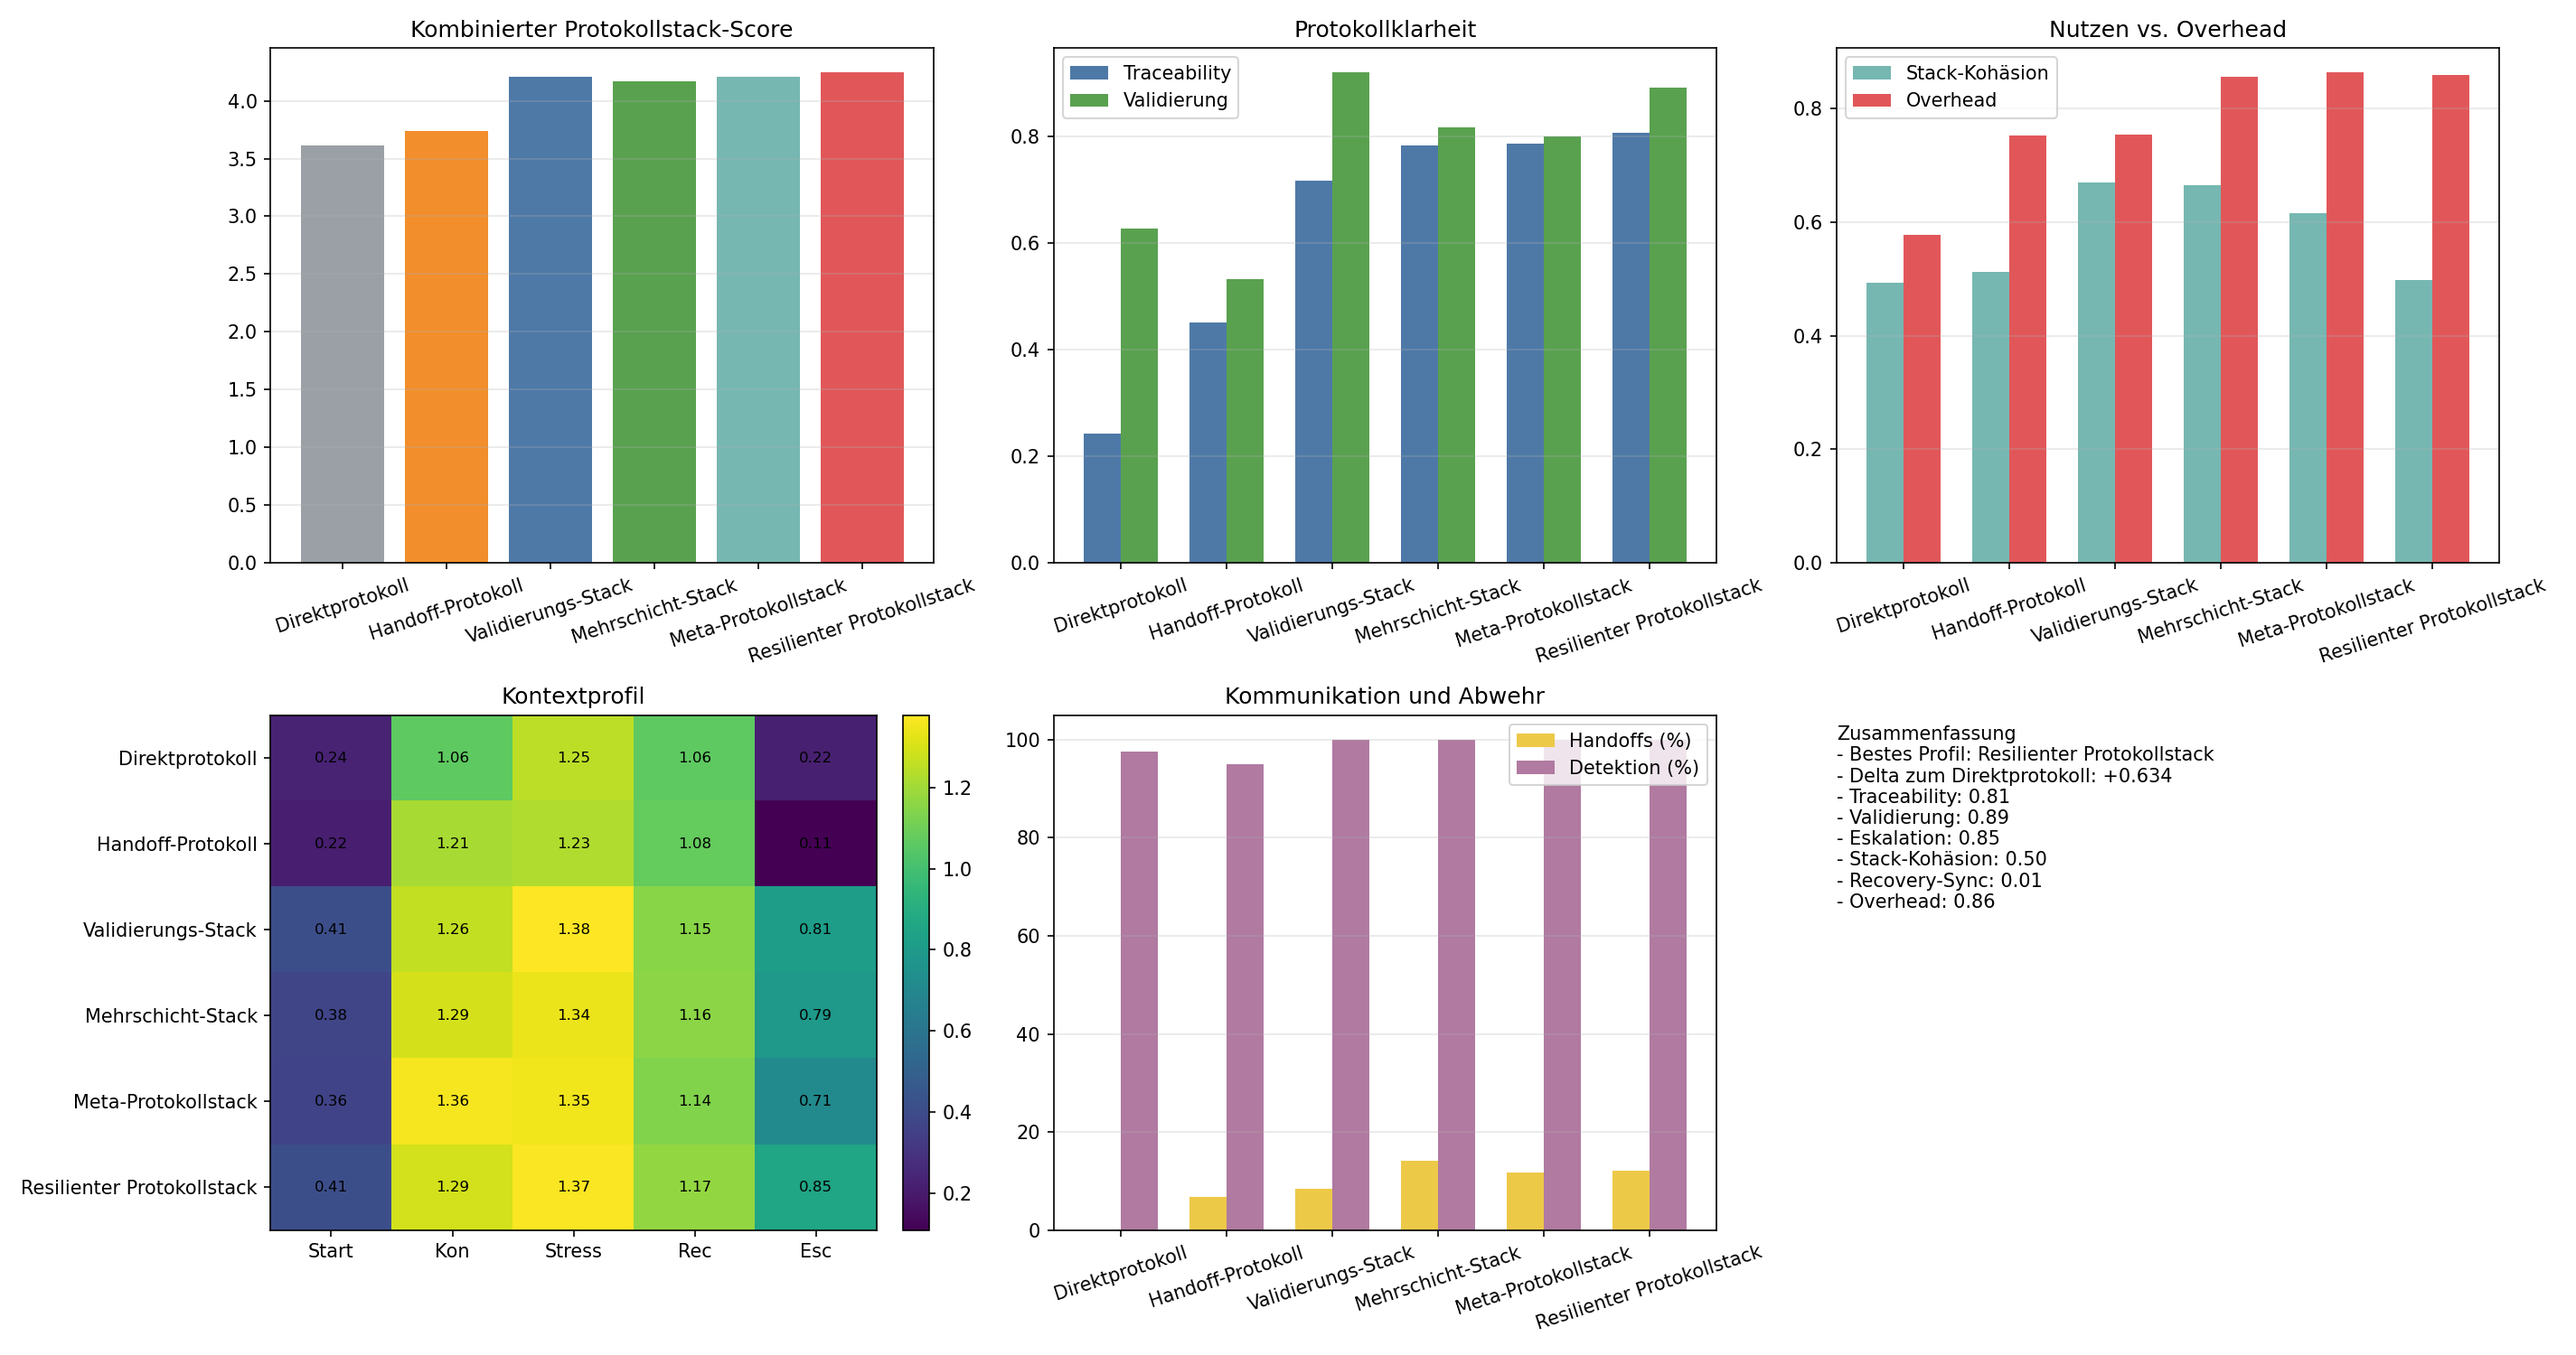
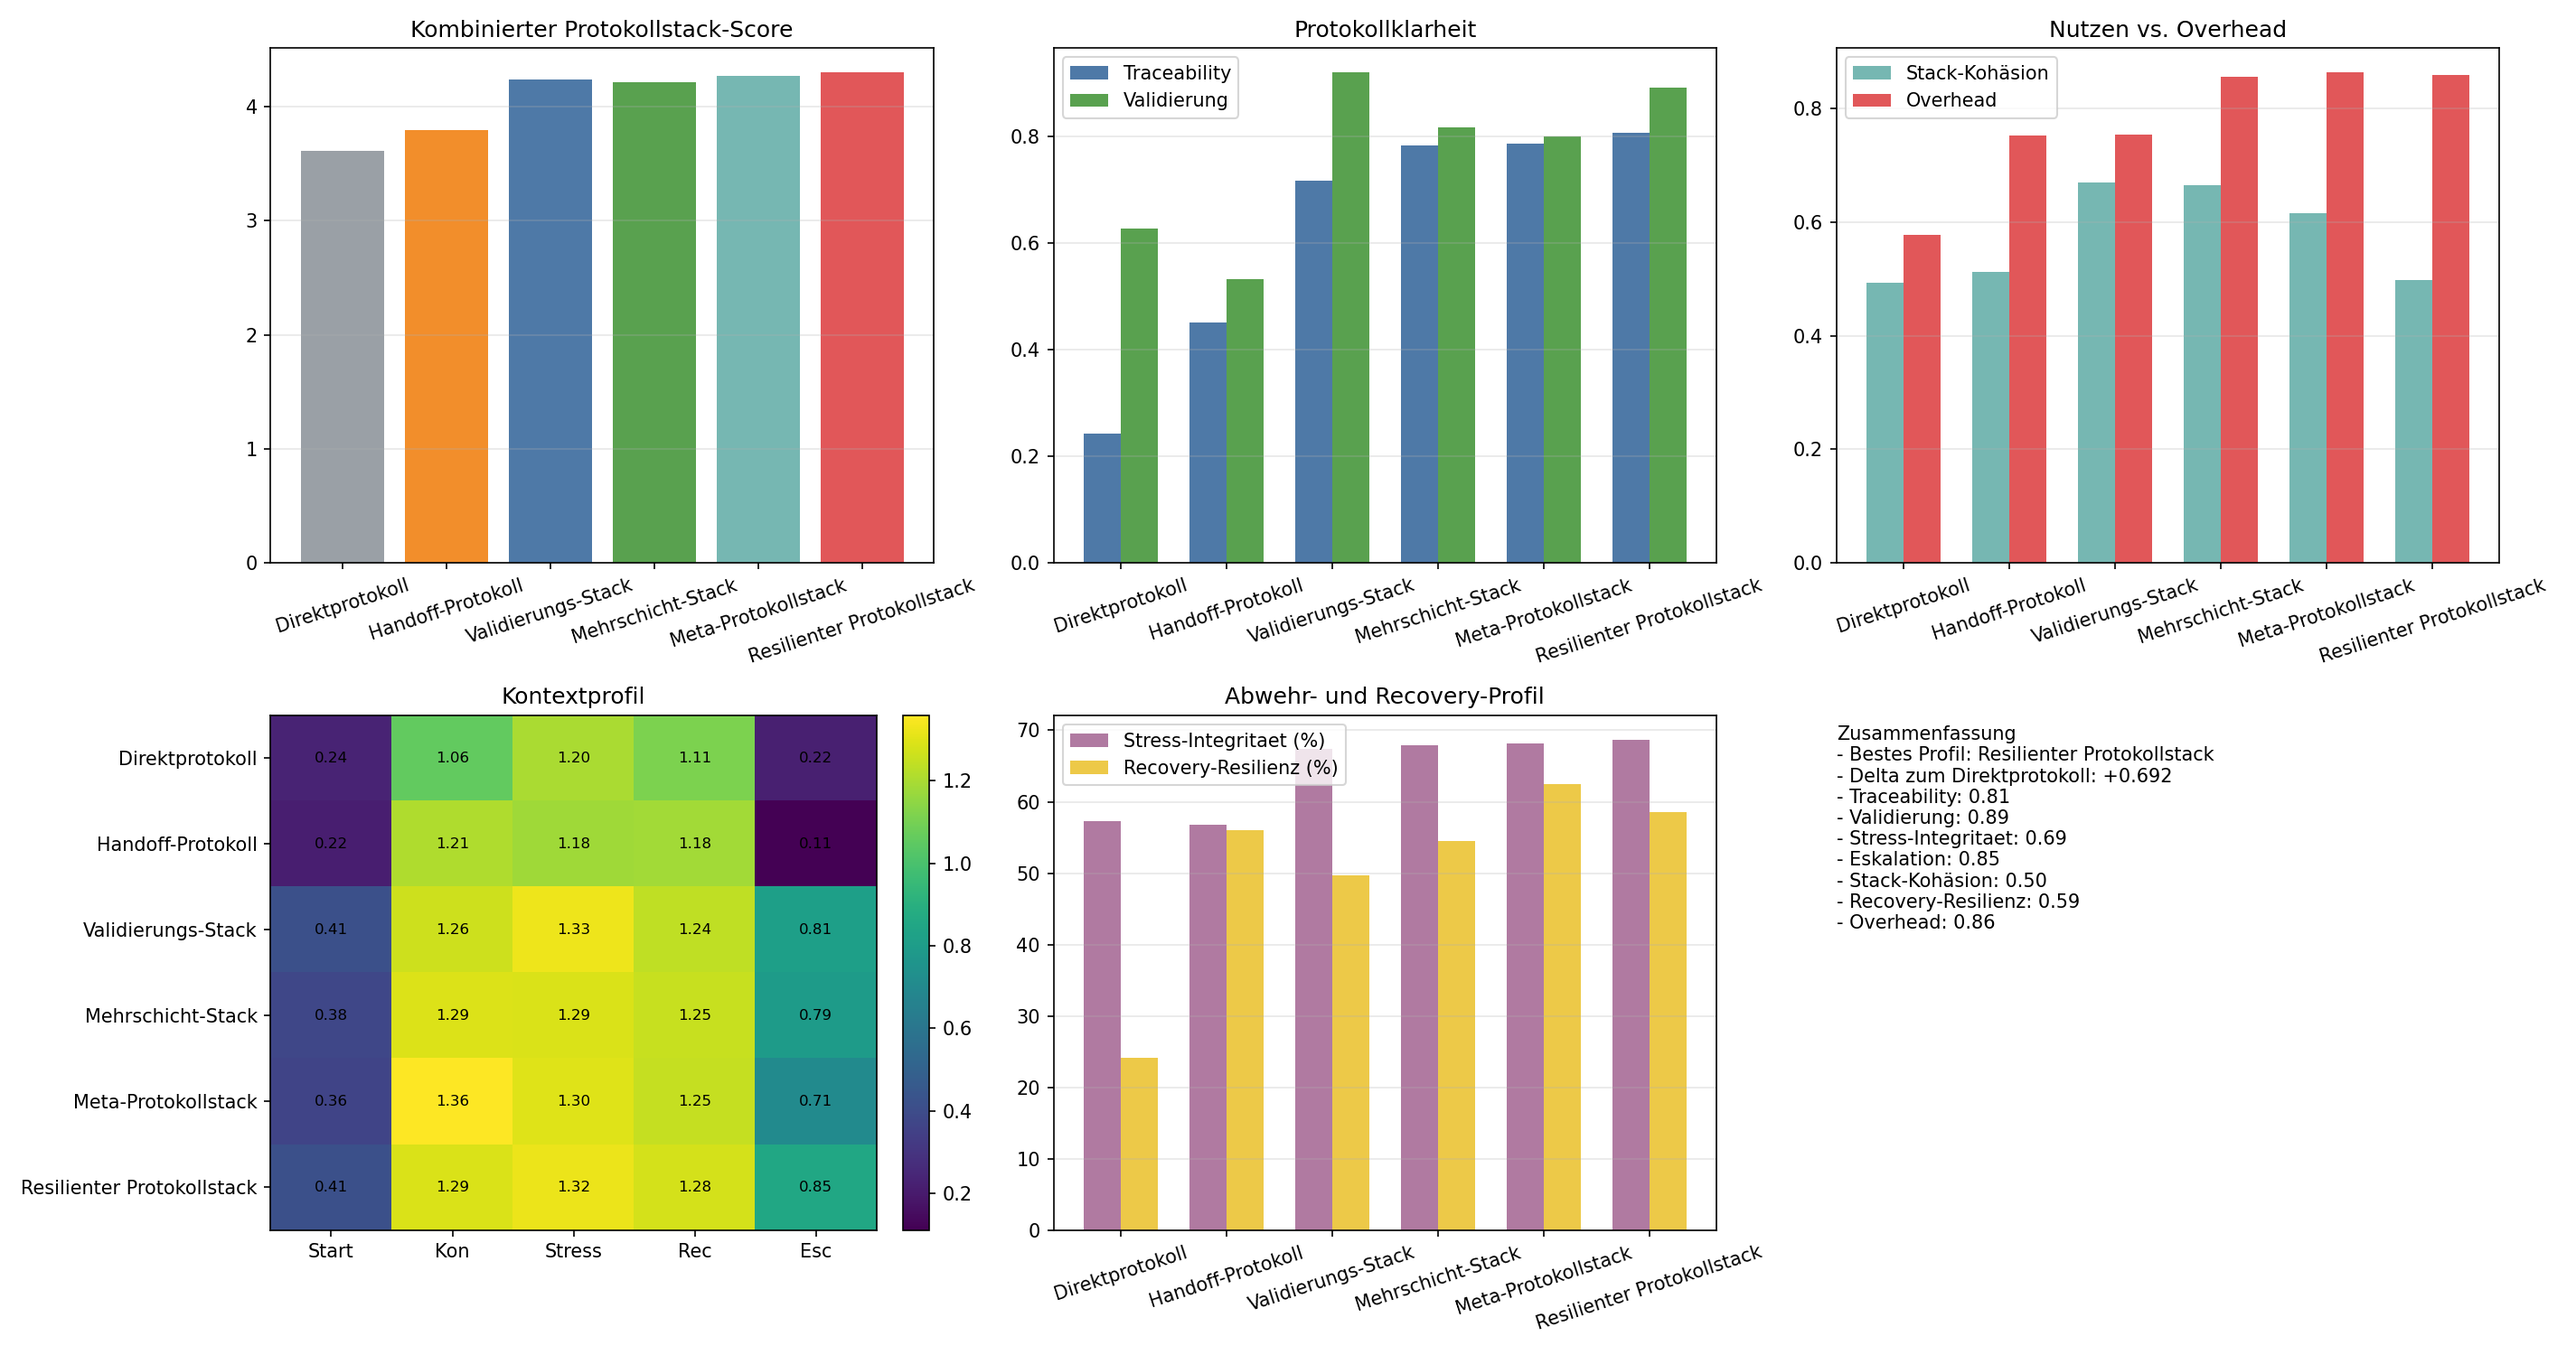
Refine protocol stack resilience metrics

diff --git a/schwarm_protokollstack.py b/schwarm_protokollstack.py
@@ -220,6 +220,7 @@ def protocol_stack_metrics(config, result, params, bias):
     workflow = result['workflow_metrics']
     groups = gruppenmetriken(result['agents'], params)
     schema = schema_metrics(config)
+    agent_count = max(1.0, float(len(result['agents'])))
 
     protocol_layers = [
         config.get('enable_workflow_stages', False),
@@ -296,6 +297,28 @@ def protocol_stack_metrics(config, result, params, bias):
             ]
         )
     )
+    stress_integrity = clamp01(
+        mittelwert(
+            [
+                workflow.get('misinformation_detection_rate', 0.0),
+                1.0 - workflow.get('misinformation_corruption_mean', 0.0),
+                1.0 - workflow.get('cluster_compromise_mean', 0.0),
+                workflow.get('trust_shield_mean', 0.0),
+                workflow.get('sync_strength_mean', 0.0),
+            ]
+        )
+    )
+    recovery_resilience = clamp01(
+        mittelwert(
+            [
+                workflow.get('sync_strength_mean', 0.0),
+                workflow.get('resource_efficiency', 0.0),
+                1.0 - normalize(workflow.get('failed_agents_mean', 0.0), 0.0, agent_count * 0.35),
+                normalize(workflow.get('recovery_events_total', 0.0), 0.0, agent_count * 0.30),
+                workflow.get('completion_rate', 0.0),
+            ]
+        )
+    )
 
     return {
         'completion_rate': workflow.get('completion_rate', 0.0),
@@ -326,6 +349,8 @@ def protocol_stack_metrics(config, result, params, bias):
         'escalation_readiness': escalation_readiness,
         'stack_cohesion': stack_cohesion,
         'protocol_overhead': protocol_overhead,
+        'stress_integrity': stress_integrity,
+        'recovery_resilience': recovery_resilience,
         'layer_depth': normalized_depth,
     }
 
@@ -395,24 +420,21 @@ def context_score(kontext_name, result, agent_count):
     if kontext_name == 'stress':
         return (
             base
-            + 0.16 * metrics['detection_rate']
+            + 0.16 * metrics['stress_integrity']
             + 0.12 * metrics['escalation_readiness']
             + 0.10 * metrics['validation_coverage']
             + 0.08 * metrics['traceability']
             + 0.08 * metrics['mission_success']
-            - 0.14 * metrics['corruption_mean']
-            - 0.10 * metrics['cluster_compromise_mean']
             - 0.08 * metrics['protocol_overhead']
         )
     return (
         base
-        + 0.18 * metrics['sync_strength_mean']
+        + 0.18 * metrics['recovery_resilience']
         + 0.16 * recoveries
         + 0.12 * metrics['escalation_readiness']
         + 0.10 * metrics['traceability']
         + 0.08 * metrics['stack_cohesion']
         - 0.12 * failed_share
-        - 0.10 * metrics['cluster_compromise_mean']
         - 0.08 * metrics['protocol_overhead']
     )
 
@@ -426,6 +448,8 @@ def summarize_runs(runs, eintrag, context_list, agent_count):
         'escalation_readiness': {},
         'stack_cohesion': {},
         'protocol_overhead': {},
+        'stress_integrity': {},
+        'recovery_resilience': {},
         'handoff_rate': {},
         'detection_rate': {},
         'sync_strength_mean': {},
@@ -484,7 +508,7 @@ def main():
             f"{summary['label']:<28} Score={summary['combined_score']:+.3f} | "
             f"Trace={summary['traceability']['startup']:.2f} | "
             f"Validierung={summary['validation_coverage']['startup']:.2f} | "
-            f"Overhead={summary['protocol_overhead']['startup']:.2f}"
+            f"Stress-Integritaet={summary['stress_integrity']['stress']:.2f}"
         )
 
     best = max(summaries, key=lambda item: item['combined_score'])
@@ -498,7 +522,7 @@ def main():
     print(
         f"Traceability {best['traceability']['startup']:.2f}, "
         f"Validierung {best['validation_coverage']['startup']:.2f}, "
-        f"Overhead {best['protocol_overhead']['startup']:.2f}"
+        f"Stress-Integritaet {best['stress_integrity']['stress']:.2f}"
     )
 
     labels = [item['label'] for item in summaries]
@@ -580,19 +604,19 @@ def main():
 
     axes[1, 1].bar(
         x - width / 2,
-        [item['handoff_rate']['consensus'] * 100.0 for item in summaries],
+        [item['stress_integrity']['stress'] * 100.0 for item in summaries],
         width,
-        label='Handoffs (%)',
-        color='#edc948',
+        label='Stress-Integritaet (%)',
+        color='#b07aa1',
     )
     axes[1, 1].bar(
         x + width / 2,
-        [item['detection_rate']['stress'] * 100.0 for item in summaries],
+        [item['recovery_resilience']['recovery'] * 100.0 for item in summaries],
         width,
-        label='Detektion (%)',
-        color='#b07aa1',
+        label='Recovery-Resilienz (%)',
+        color='#edc948',
     )
-    axes[1, 1].set_title('Kommunikation und Abwehr')
+    axes[1, 1].set_title('Abwehr- und Recovery-Profil')
     axes[1, 1].set_xticks(x)
     axes[1, 1].set_xticklabels(labels, rotation=18)
     axes[1, 1].legend()
@@ -602,17 +626,18 @@ def main():
     axes[1, 2].text(
         0.0,
         0.98,
-        (
-            "Zusammenfassung\n"
-            f"- Bestes Profil: {best['label']}\n"
-            f"- Delta zum Direktprotokoll: {best['combined_score'] - baseline['combined_score']:+.3f}\n"
-            f"- Traceability: {best['traceability']['startup']:.2f}\n"
-            f"- Validierung: {best['validation_coverage']['startup']:.2f}\n"
-            f"- Eskalation: {best['escalation_readiness']['recovery']:.2f}\n"
-            f"- Stack-Kohäsion: {best['stack_cohesion']['consensus']:.2f}\n"
-            f"- Recovery-Sync: {best['sync_strength_mean']['recovery']:.2f}\n"
-            f"- Overhead: {best['protocol_overhead']['startup']:.2f}"
-        ),
+            (
+                "Zusammenfassung\n"
+                f"- Bestes Profil: {best['label']}\n"
+                f"- Delta zum Direktprotokoll: {best['combined_score'] - baseline['combined_score']:+.3f}\n"
+                f"- Traceability: {best['traceability']['startup']:.2f}\n"
+                f"- Validierung: {best['validation_coverage']['startup']:.2f}\n"
+                f"- Stress-Integritaet: {best['stress_integrity']['stress']:.2f}\n"
+                f"- Eskalation: {best['escalation_readiness']['recovery']:.2f}\n"
+                f"- Stack-Kohäsion: {best['stack_cohesion']['consensus']:.2f}\n"
+                f"- Recovery-Resilienz: {best['recovery_resilience']['recovery']:.2f}\n"
+                f"- Overhead: {best['protocol_overhead']['startup']:.2f}"
+            ),
         va='top',
         fontsize=10,
     )
